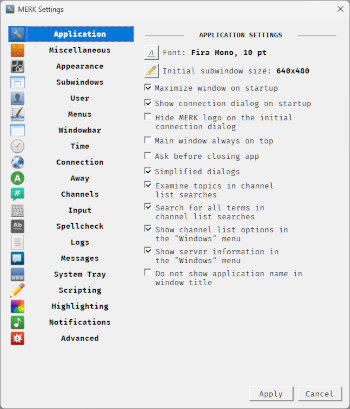
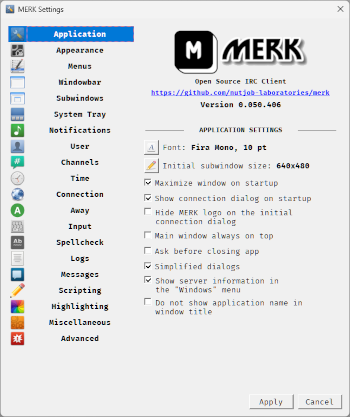
Changes to the settings dialog

diff --git a/README.html b/README.html
@@ -1,4 +1,4 @@
-<h1>MERK 0.050.406</h1>
+<h1>MERK 0.050.407</h1>
 
 <p><a href="https://github.com/nutjob-laboratories/merk">Official source code repository</a></p>
 <h1 id="table-of-contents">Table of contents</h1>
@@ -14,7 +14,7 @@
 <li><a href="#does-merk-need-any-help">Does MERK need any help?</a></li>
 </ul>
 <h1 id="summary">Summary</h1>
-<p><strong>MERK</strong> is a graphical <a href="https://www.gnu.org/licenses/gpl-3.0.en.html">open source</a> <a href="https://en.wikipedia.org/wiki/Internet_Relay_Chat">Internet relay chat</a> client. The current development version is <strong>0.050.406</strong>. It uses a <a href="https://en.wikipedia.org/wiki/Multiple-document_interface">multiple-document interface</a>, much like the popular Windows IRC client <a href="https://www.mirc.com/">mIRC</a>.  <strong>MERK</strong> is written in Python 3, using the <a href="https://pypi.org/project/PyQt5/">PyQt5</a> and <a href="https://twistedmatrix.com/trac/">Twisted</a> libraries, and runs on both Windows and Linux. <strong>MERK</strong> is updated frequently with new features and bugfixes.</p>
+<p><strong>MERK</strong> is a graphical <a href="https://www.gnu.org/licenses/gpl-3.0.en.html">open source</a> <a href="https://en.wikipedia.org/wiki/Internet_Relay_Chat">Internet relay chat</a> client. The current development version is <strong>0.050.407</strong>. It uses a <a href="https://en.wikipedia.org/wiki/Multiple-document_interface">multiple-document interface</a>, much like the popular Windows IRC client <a href="https://www.mirc.com/">mIRC</a>.  <strong>MERK</strong> is written in Python 3, using the <a href="https://pypi.org/project/PyQt5/">PyQt5</a> and <a href="https://twistedmatrix.com/trac/">Twisted</a> libraries, and runs on both Windows and Linux. <strong>MERK</strong> is updated frequently with new features and bugfixes.</p>
 <p><strong>MERK</strong> is still in development, but it works, and can be used for most IRC activities.</p>
 <p>Join me on the official <strong>MERK</strong> IRC channel, <strong>#merk</strong> on the Libera Chat network! Connect to  Libera in the client as one of the built-in server suggestions, or at <strong>irc.libera.chat</strong>, port <strong>6667</strong> (you can also connect via SSL on port <strong>6697</strong>). Honestly, I work a lot, so I&#39;m almost always idle, but I pop in and chat a few times a day!</p>
 <h1 id="making-merk-portable-on-windows">Making MERK Portable on Windows</h1>

diff --git a/merk/resources/README.html b/merk/resources/README.html
@@ -1,4 +1,4 @@
-<h1>MERK 0.050.406</h1>
+<h1>MERK 0.050.407</h1>
 
 <p><a href="https://github.com/nutjob-laboratories/merk">Official source code repository</a></p>
 <h1 id="table-of-contents">Table of contents</h1>
@@ -14,7 +14,7 @@
 <li><a href="#does-merk-need-any-help">Does MERK need any help?</a></li>
 </ul>
 <h1 id="summary">Summary</h1>
-<p><strong>MERK</strong> is a graphical <a href="https://www.gnu.org/licenses/gpl-3.0.en.html">open source</a> <a href="https://en.wikipedia.org/wiki/Internet_Relay_Chat">Internet relay chat</a> client. The current development version is <strong>0.050.406</strong>. It uses a <a href="https://en.wikipedia.org/wiki/Multiple-document_interface">multiple-document interface</a>, much like the popular Windows IRC client <a href="https://www.mirc.com/">mIRC</a>.  <strong>MERK</strong> is written in Python 3, using the <a href="https://pypi.org/project/PyQt5/">PyQt5</a> and <a href="https://twistedmatrix.com/trac/">Twisted</a> libraries, and runs on both Windows and Linux. <strong>MERK</strong> is updated frequently with new features and bugfixes.</p>
+<p><strong>MERK</strong> is a graphical <a href="https://www.gnu.org/licenses/gpl-3.0.en.html">open source</a> <a href="https://en.wikipedia.org/wiki/Internet_Relay_Chat">Internet relay chat</a> client. The current development version is <strong>0.050.407</strong>. It uses a <a href="https://en.wikipedia.org/wiki/Multiple-document_interface">multiple-document interface</a>, much like the popular Windows IRC client <a href="https://www.mirc.com/">mIRC</a>.  <strong>MERK</strong> is written in Python 3, using the <a href="https://pypi.org/project/PyQt5/">PyQt5</a> and <a href="https://twistedmatrix.com/trac/">Twisted</a> libraries, and runs on both Windows and Linux. <strong>MERK</strong> is updated frequently with new features and bugfixes.</p>
 <p><strong>MERK</strong> is still in development, but it works, and can be used for most IRC activities.</p>
 <p>Join me on the official <strong>MERK</strong> IRC channel, <strong>#merk</strong> on the Libera Chat network! Connect to  Libera in the client as one of the built-in server suggestions, or at <strong>irc.libera.chat</strong>, port <strong>6667</strong> (you can also connect via SSL on port <strong>6697</strong>). Honestly, I work a lot, so I&#39;m almost always idle, but I pop in and chat a few times a day!</p>
 <h1 id="making-merk-portable-on-windows">Making MERK Portable on Windows</h1>

diff --git a/merk/dialog/settings.py b/merk/dialog/settings.py
@@ -1377,24 +1377,6 @@ class Dialog(QDialog):
 		if config.ASK_BEFORE_CLOSE: self.askBeforeExit.setChecked(True)
 		self.askBeforeExit.stateChanged.connect(self.changedSetting)
 
-		self.examineTopic = QCheckBox("Examine topics in channel\nlist searches",self)
-		if config.EXAMINE_TOPIC_IN_CHANNEL_LIST_SEARCH: self.examineTopic.setChecked(True)
-		self.examineTopic.stateChanged.connect(self.changedSetting)
-
-		self.examineTopic.setStyleSheet("QCheckBox { text-align: left top; } QCheckBox::indicator { subcontrol-origin: padding; subcontrol-position: left top; }")
-
-		self.showChannelList = QCheckBox(f"Show channel list options in\nthe \"{config.MAIN_MENU_WINDOWS_NAME}\" menu",self)
-		if config.SHOW_CHANNEL_LIST_IN_WINDOWS_MENU: self.showChannelList.setChecked(True)
-		self.showChannelList.stateChanged.connect(self.changedSetting)
-
-		self.showChannelList.setStyleSheet("QCheckBox { text-align: left top; } QCheckBox::indicator { subcontrol-origin: padding; subcontrol-position: left top; }")
-
-		self.searchAllTerms = QCheckBox("Search for all terms in\nchannel list searches",self)
-		if config.SEARCH_ALL_TERMS_IN_CHANNEL_LIST: self.searchAllTerms.setChecked(True)
-		self.searchAllTerms.stateChanged.connect(self.changedSetting)
-
-		self.searchAllTerms.setStyleSheet("QCheckBox { text-align: left top; } QCheckBox::indicator { subcontrol-origin: padding; subcontrol-position: left top; }")
-
 		self.showServerInfo = QCheckBox(f"Show server information in\nthe \"{config.MAIN_MENU_WINDOWS_NAME}\" menu",self)
 		if config.SHOW_SERVER_INFO_IN_WINDOWS_MENU: self.showServerInfo.setChecked(True)
 		self.showServerInfo.stateChanged.connect(self.changedSetting)
@@ -1415,7 +1397,20 @@ class Dialog(QDialog):
 		if config.ASK_FOR_SERVER_ON_STARTUP: self.showConnect.setChecked(True)
 		self.showConnect.stateChanged.connect(self.changedSetting)
 
+		logo = QLabel()
+		pixmap = QPixmap(SPLASH_LOGO)
+		logo.setPixmap(pixmap)
+		logo.setAlignment(Qt.AlignCenter)
+
+		app_link = QLabel(f'<center><b><small><a href="{APPLICATION_SOURCE}">{APPLICATION_SOURCE}</a></small></b></center>')
+		app_link.setOpenExternalLinks(True)
+
 		applicationLayout = QVBoxLayout()
+		applicationLayout.addWidget(logo)
+		applicationLayout.addWidget(QLabel(f'<center><b><small>Open Source IRC Client</small></b></center>'))
+		applicationLayout.addWidget(app_link)
+		applicationLayout.addWidget(QLabel(f'<center><b>Version {APPLICATION_VERSION}</b></center>'))
+		applicationLayout.addWidget(QLabel(' '))
 		applicationLayout.addWidget(widgets.textSeparatorLabel(self,"<b>application settings</b>"))
 		applicationLayout.addLayout(fontLayout)
 		applicationLayout.addLayout(sizeLayout)
@@ -1425,9 +1420,6 @@ class Dialog(QDialog):
 		applicationLayout.addWidget(self.alwaysOnTop)
 		applicationLayout.addWidget(self.askBeforeExit)
 		applicationLayout.addWidget(self.simpleConnect)
-		applicationLayout.addWidget(self.examineTopic)
-		applicationLayout.addWidget(self.searchAllTerms)
-		applicationLayout.addWidget(self.showChannelList)
 		applicationLayout.addWidget(self.showServerInfo)
 		applicationLayout.addWidget(self.noAppNameTitle)
 		applicationLayout.addStretch()
@@ -2883,7 +2875,43 @@ class Dialog(QDialog):
 			self.appCancelAway.setEnabled(False)
 			self.autoawayInterval.setEnabled(False)
 
+		self.awayMsg = EmojiAwayAutocomplete(self)
+		self.awayMsg.setText(self.default_away)
+
+		fm = self.awayMsg.fontMetrics()
+		self.awayMsg.setFixedHeight(fm.height()+10)
+		self.awayMsg.setWordWrapMode(QTextOption.NoWrap)
+		self.awayMsg.setHorizontalScrollBarPolicy(Qt.ScrollBarAlwaysOff)
+		self.awayMsg.setVerticalScrollBarPolicy(Qt.ScrollBarAlwaysOff)
+
+		self.awayMsg.textChanged.connect(self.setAwayMsg)
+
+		self.autoEmojiAway = QCheckBox(f"Autocomplete emoji shortcodes",self)
+		if config.AUTOCOMPLETE_EMOJIS_IN_AWAY_MESSAGE_WIDGET: self.autoEmojiAway.setChecked(True)
+		self.autoEmojiAway.stateChanged.connect(self.changeEmojiAuto)
+
+		if not config.ENABLE_EMOJI_SHORTCODES:
+			self.autoEmojiAway.setEnabled(False)
+
+		self.autoAliasAway = QCheckBox(f"Interpolate aliases into message",self)
+		if config.INTERPOLATE_ALIASES_INTO_AWAY_MESSAGE: self.autoAliasAway.setChecked(True)
+		self.autoAliasAway.stateChanged.connect(self.changedSetting)
+
+		if not config.ENABLE_ALIASES:
+			self.autoAliasAway.setEnabled(False)
+
 		awayLayout = QVBoxLayout()
+		awayLayout.addWidget(self.awayMsg)
+		awayLayout.addWidget(self.autoEmojiAway)
+		awayLayout.addWidget(self.autoAliasAway)
+		awayBox = QGroupBox("")
+		awayBox.setAlignment(Qt.AlignLeft)
+		awayBox.setLayout(awayLayout)
+
+		awayLayout = QVBoxLayout()
+		awayLayout.addWidget(widgets.textSeparatorLabel(self,"<b>default away message</b>"))
+		awayLayout.addWidget(awayBox)
+		awayLayout.addWidget(QLabel(' '))
 		awayLayout.addWidget(widgets.textSeparatorLabel(self,"<b>away settings</b>"))
 		awayLayout.addWidget(self.promptAway)
 		awayLayout.addWidget(self.showAwayBack)
@@ -3800,59 +3828,48 @@ class Dialog(QDialog):
 		if not config.ENABLE_ALIASES:
 			self.autoAliasQuit.setEnabled(False)
 
-		quitLayout = QVBoxLayout()
-		quitLayout.addWidget(self.partMsg)
-		quitLayout.addWidget(self.autoEmojiQuit)
-		quitLayout.addWidget(self.autoAliasQuit)
+		qfLayout = QVBoxLayout()
+		qfLayout.addWidget(self.partMsg)
+		qfLayout.addWidget(self.autoEmojiQuit)
+		qfLayout.addWidget(self.autoAliasQuit)
+
 		quitBox = QGroupBox("")
 		quitBox.setAlignment(Qt.AlignLeft)
-		quitBox.setLayout(quitLayout)
+		quitBox.setLayout(qfLayout)
 
-		self.awayMsg = EmojiAwayAutocomplete(self)
-		self.awayMsg.setText(self.default_away)
+		size_policy = quitBox.sizePolicy()
+		size_policy.setHorizontalPolicy(QSizePolicy.Expanding)
+		size_policy.setVerticalPolicy(QSizePolicy.Fixed)
+		quitBox.setSizePolicy(size_policy)
 
-		fm = self.awayMsg.fontMetrics()
-		self.awayMsg.setFixedHeight(fm.height()+10)
-		self.awayMsg.setWordWrapMode(QTextOption.NoWrap)
-		self.awayMsg.setHorizontalScrollBarPolicy(Qt.ScrollBarAlwaysOff)
-		self.awayMsg.setVerticalScrollBarPolicy(Qt.ScrollBarAlwaysOff)
+		self.showChannelList = QCheckBox(f"Show channel list options in\nthe \"{config.MAIN_MENU_WINDOWS_NAME}\" menu",self)
+		if config.SHOW_CHANNEL_LIST_IN_WINDOWS_MENU: self.showChannelList.setChecked(True)
+		self.showChannelList.stateChanged.connect(self.changedSetting)
+		self.showChannelList.setStyleSheet("QCheckBox { text-align: left top; } QCheckBox::indicator { subcontrol-origin: padding; subcontrol-position: left top; }")
 
-		self.awayMsg.textChanged.connect(self.setAwayMsg)
+		self.searchAllTerms = QCheckBox("Search for all terms in\nchannel list searches",self)
+		if config.SEARCH_ALL_TERMS_IN_CHANNEL_LIST: self.searchAllTerms.setChecked(True)
+		self.searchAllTerms.stateChanged.connect(self.changedSetting)
+		self.searchAllTerms.setStyleSheet("QCheckBox { text-align: left top; } QCheckBox::indicator { subcontrol-origin: padding; subcontrol-position: left top; }")
 
-		self.autoEmojiAway = QCheckBox(f"Autocomplete emoji shortcodes",self)
-		if config.AUTOCOMPLETE_EMOJIS_IN_AWAY_MESSAGE_WIDGET: self.autoEmojiAway.setChecked(True)
-		self.autoEmojiAway.stateChanged.connect(self.changeEmojiAuto)
-
-		if not config.ENABLE_EMOJI_SHORTCODES:
-			self.autoEmojiAway.setEnabled(False)
-
-		self.autoAliasAway = QCheckBox(f"Interpolate aliases into message",self)
-		if config.INTERPOLATE_ALIASES_INTO_AWAY_MESSAGE: self.autoAliasAway.setChecked(True)
-		self.autoAliasAway.stateChanged.connect(self.changedSetting)
-
-		if not config.ENABLE_ALIASES:
-			self.autoAliasAway.setEnabled(False)
-
-		awayLayout = QVBoxLayout()
-		awayLayout.addWidget(self.awayMsg)
-		awayLayout.addWidget(self.autoEmojiAway)
-		awayLayout.addWidget(self.autoAliasAway)
-		awayBox = QGroupBox("")
-		awayBox.setAlignment(Qt.AlignLeft)
-		awayBox.setLayout(awayLayout)
+		self.examineTopic = QCheckBox("Examine topics in channel\nlist searches",self)
+		if config.EXAMINE_TOPIC_IN_CHANNEL_LIST_SEARCH: self.examineTopic.setChecked(True)
+		self.examineTopic.stateChanged.connect(self.changedSetting)
+		self.examineTopic.setStyleSheet("QCheckBox { text-align: left top; } QCheckBox::indicator { subcontrol-origin: padding; subcontrol-position: left top; }")
 
 		miscLayout = QVBoxLayout()
+		miscLayout.addWidget(widgets.textSeparatorLabel(self,"<b>default quit/part message</b>"))
+		miscLayout.addWidget(quitBox)
+		miscLayout.addWidget(QLabel(' '))
 		miscLayout.addWidget(widgets.textSeparatorLabel(self,"<b>emoji shortcodes</b>"))
 		miscLayout.addWidget(self.emojiDescription)
 		miscLayout.addLayout(escLayout)
 		miscLayout.addWidget(QLabel(' '))
-		miscLayout.addWidget(widgets.textSeparatorLabel(self,"<b>default quit/part message</b>"))
-		miscLayout.addWidget(quitBox)
-		miscLayout.addWidget(QLabel(' '))
-		miscLayout.addWidget(widgets.textSeparatorLabel(self,"<b>default away message</b>"))
-		miscLayout.addWidget(awayBox)
+		miscLayout.addWidget(widgets.textSeparatorLabel(self,"<b>channel list options</b>"))
+		miscLayout.addWidget(self.showChannelList)
+		miscLayout.addWidget(self.searchAllTerms)
+		miscLayout.addWidget(self.examineTopic)
 		miscLayout.addStretch()
-
 		self.miscPage.setLayout(miscLayout)
 
 		# Advanced

diff --git a/merk/resources/version.py b/merk/resources/version.py
@@ -1,1 +1,1 @@
-APPLICATION_VERSION = "0.050.406"
+APPLICATION_VERSION = "0.050.407"

diff --git a/README.md b/README.md
@@ -3,7 +3,7 @@
   <b><big>Open Source IRC Client</big></b><br>
   <i>A multiple-document interface IRC client for Windows and Linux</i><br>
   <b><big>Current stable release: <a href="https://github.com/nutjob-laboratories/merk/releases/tag/0.050.400">MERK 0.050.400</a></big></b><br>
-  <b>Current development version: 0.050.406</b><br><br>
+  <b>Current development version: 0.050.407</b><br><br>
   <b><a href="https://gofund.me/ae062139">Help Fund MERK!</a></b><br>
 </p>
 
@@ -30,13 +30,13 @@ All files are packed in [ZIP archive files](https://en.wikipedia.org/wiki/ZIP_(f
 | :----:    | :----:    | :----:    |
 | User Guide |  -  | [View](./MERK_User_Guide.pdf)  |
 | Current Release |  -  | [MERK 0.050.400 Release](https://github.com/nutjob-laboratories/merk/releases/tag/0.050.400)  |
-| Zip Archive|  Cross-platform  | [Download MERK 0.050.406 (11.94 MB)](https://www.dropbox.com/scl/fi/pf9p7ltb3uufm5akjz7l0/merk-latest.zip?rlkey=3caodopybbcxr4p9grxygxzym&st=01zsuura&dl=1)  |
-| Zip Archive|  Windows | [Download MERK 0.050.406 (48.75 MB)](https://www.dropbox.com/scl/fi/4w9ufyknzac24o06710bi/merk-windows-latest.zip?rlkey=zmir67l3klg8mw0omxayzmssc&st=vb69tsdi&dl=1)|
-|   Windows Installer|  Windows | [Download MERK 0.050.406 (45.88 MB)](https://www.dropbox.com/scl/fi/0u1vcg5xuntzs2b16e01b/merk_setup.zip?rlkey=8avj1gyed3txz1nfj9ev41mmh&st=zlve4c1o&dl=1)|
+| Zip Archive|  Cross-platform  | [Download MERK 0.050.407 (11.94 MB)](https://www.dropbox.com/scl/fi/pf9p7ltb3uufm5akjz7l0/merk-latest.zip?rlkey=3caodopybbcxr4p9grxygxzym&st=01zsuura&dl=1)  |
+| Zip Archive|  Windows | [Download MERK 0.050.407 (48.75 MB)](https://www.dropbox.com/scl/fi/4w9ufyknzac24o06710bi/merk-windows-latest.zip?rlkey=zmir67l3klg8mw0omxayzmssc&st=vb69tsdi&dl=1)|
+|   Windows Installer|  Windows | [Download MERK 0.050.407 (45.88 MB)](https://www.dropbox.com/scl/fi/0u1vcg5xuntzs2b16e01b/merk_setup.zip?rlkey=8avj1gyed3txz1nfj9ev41mmh&st=zlve4c1o&dl=1)|
 
 # Summary
   
-**MERK** is a graphical [open source](https://www.gnu.org/licenses/gpl-3.0.en.html) [Internet relay chat](https://en.wikipedia.org/wiki/Internet_Relay_Chat) client. The current development version is **0.050.406**. It uses a [multiple-document interface](https://en.wikipedia.org/wiki/Multiple-document_interface), much like the popular Windows IRC client [mIRC](https://www.mirc.com/).  **MERK** is written in Python 3, using the [PyQt5](https://pypi.org/project/PyQt5/) and [Twisted](https://twistedmatrix.com/trac/) libraries, and runs on both Windows and Linux. **MERK** is updated frequently with new features and bugfixes.
+**MERK** is a graphical [open source](https://www.gnu.org/licenses/gpl-3.0.en.html) [Internet relay chat](https://en.wikipedia.org/wiki/Internet_Relay_Chat) client. The current development version is **0.050.407**. It uses a [multiple-document interface](https://en.wikipedia.org/wiki/Multiple-document_interface), much like the popular Windows IRC client [mIRC](https://www.mirc.com/).  **MERK** is written in Python 3, using the [PyQt5](https://pypi.org/project/PyQt5/) and [Twisted](https://twistedmatrix.com/trac/) libraries, and runs on both Windows and Linux. **MERK** is updated frequently with new features and bugfixes.
 
 **MERK** is still in development, but it works, and can be used for most IRC activities. [The current stable release of **MERK** is version 0.050.400](https://github.com/nutjob-laboratories/merk/releases/tag/0.050.400). **MERK** has a user guide, which can be [viewed here](./MERK_User_Guide.pdf).
 
@@ -118,7 +118,7 @@ There are three libraries that comes bundled with **MERK**:
 
 # Screenshots
 
-<p><small><i>Screenshots may not reflect the current release (0.050.400), and may reflect the current development version (0.050.406). More screenshots are in the <a href="./MERK_User_Guide.pdf">MERK User Guide</a>.</i></small></p>
+<p><small><i>Screenshots may not reflect the current release (0.050.400), and may reflect the current development version (0.050.407). More screenshots are in the <a href="./MERK_User_Guide.pdf">MERK User Guide</a>.</i></small></p>
 
 <p align="center">
 <center><a href="./graphics/screenshot_big.png"><img src="./graphics/screenshot1.png"></a></center></br>
